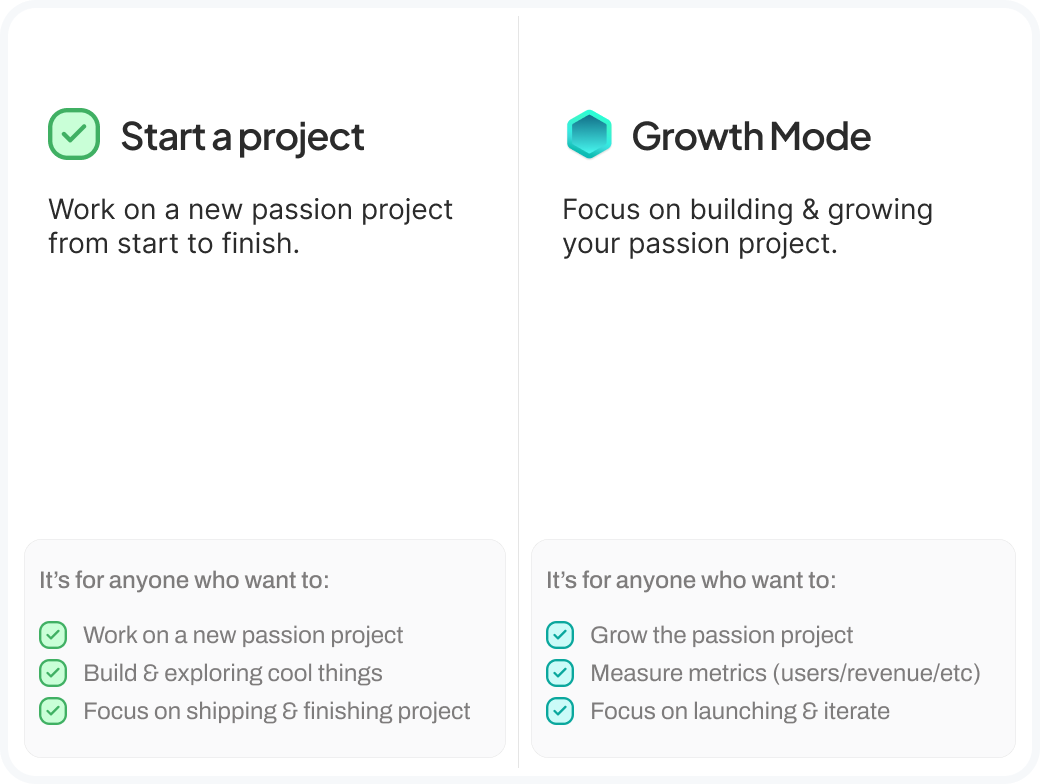
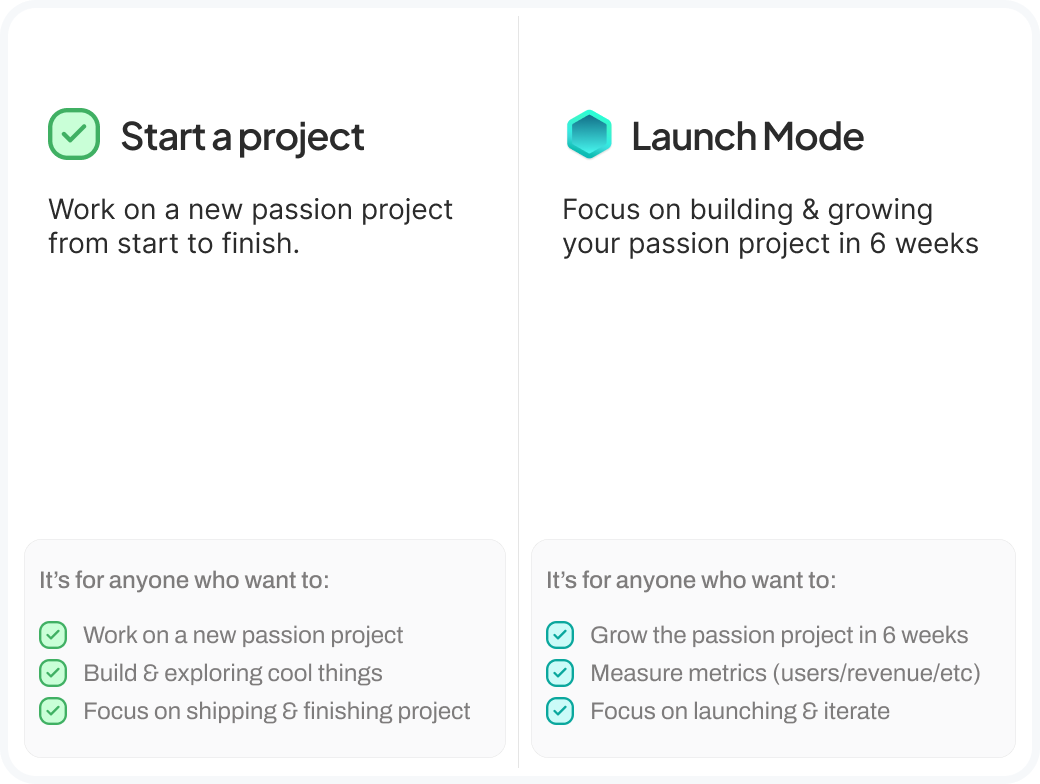
commit

Changed region(s): [[0.5846, 0.1531, 0.8308, 0.2143], [0.8, 0.3061, 0.9538, 0.3367], [0.8308, 0.7959, 0.9231, 0.8265]]

diff --git a/views/GoalMessage.js b/views/GoalMessage.js
@@ -17,7 +17,7 @@ best of luck!
 ✌ `,
             components:[MessageComponent.createComponent(
                 MessageComponent.addButton('startProject',"Start a Project").setEmoji('✨'),
-                MessageComponent.addButton('start6WIC',"⚡ Start growth mode"),
+                MessageComponent.addButton('start6WIC',"6-Week Challenge").setEmoji('🕹')
             )],
         }
     }
